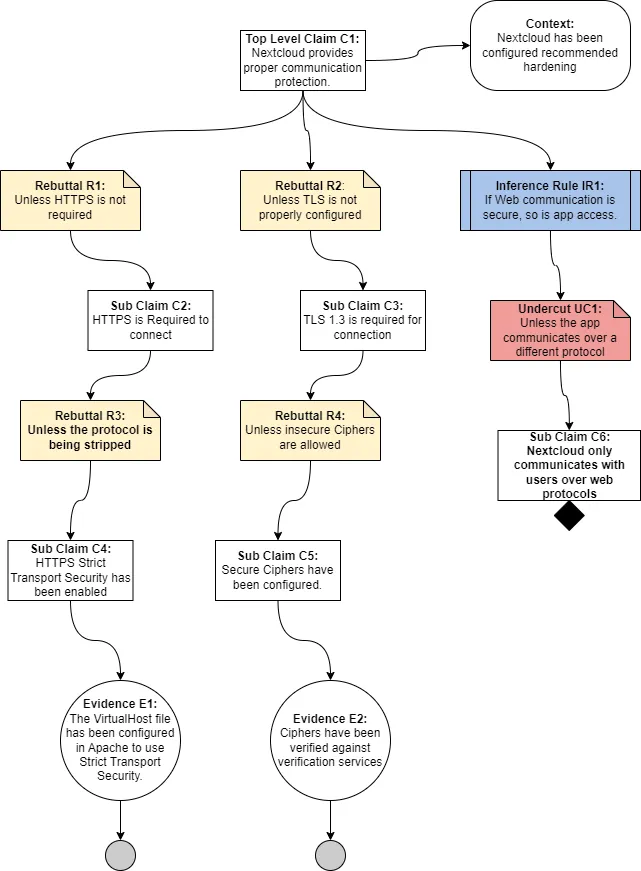
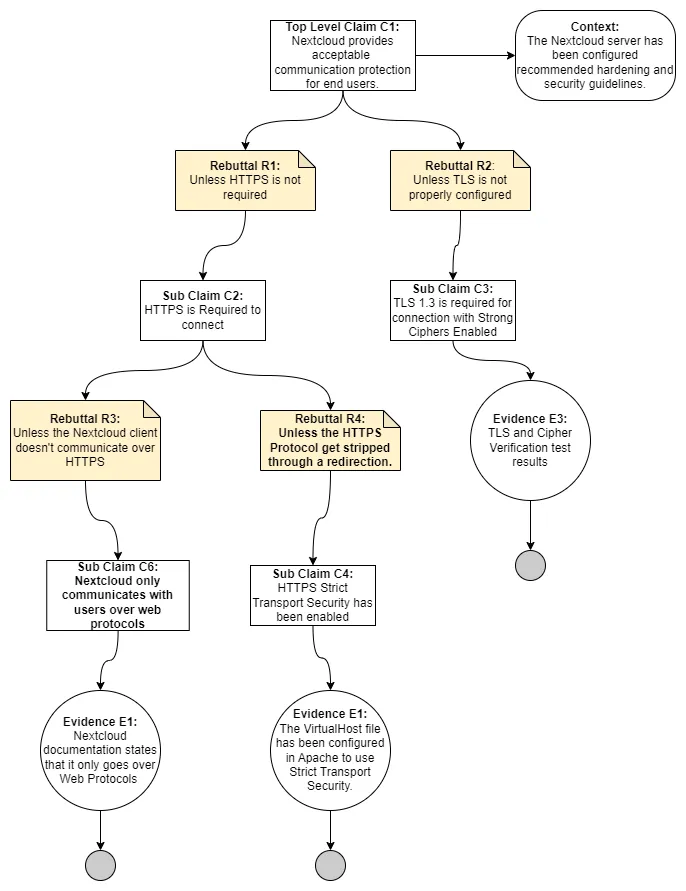
Updated Secure Communication with recommendations

diff --git a/Assurance Case/Assurance Case.md b/Assurance Case/Assurance Case.md
@@ -1,15 +1,6 @@
-# CYBR/CSCI 8420, Fall 2023: Assignment 3 - Assurance Cases for SSE
+# Assurance Cases
 
-
-Assignment Overview / Project Board
--
-This document will review the development of four top-level assurance claims for our hypothetical bank application using the Nextcloud application.
-
-
-
-Top-Level Claim #1
--
-### Claim: Nextcloud minimizes malicious input execution
+## Claim 1: Nextcloud minimizes malicious input execution
 #### Description
 User input is processed by nexcloud for searches, login, comments etc. This input can very well be used to perform many malicious activites such as extracting information from the database or executing complex script on the user's machine or even on the server. User's input represent a critical data that must be handled with care otherwise it could have some serious repercution for the business. 
 The Assurance Case below seek to mitigate this risk. 
@@ -17,9 +8,7 @@ The Assurance Case below seek to mitigate this risk.
 ![Malicious input Execution](./NC-Malicious_Input.jpg "Malicious Input Execution")
 
 
-Top-Level Claim #2
--
-### Claim: NextCloud eliminates unauthorized account access
+## Claim 2: NextCloud eliminates unauthorized account access
 
 ![Assurance Case - Account Access drawio](https://github.com/Hinrichsta/FA23-Cyber8420/assets/143133739/bb1240ba-577a-46e6-9bf6-1261e0efc286)
 
@@ -36,15 +25,18 @@ Top-Level Claim #2
 * E4: Evidence 4 will prove that as a result of change management and verification of settings post changes that these implemented claims and sub-claims will remain in effect and not be undone by any type of change or update. 
 
 
-
-Top-Level Claim #3
--
-### Claim
+## Claim 3: Nextcloud provides acceptable communication protection for end users
+#### Description
+Nextcloud has the ability to be set up with secure communication protocols within it platform.  It also only communicates over Web Protocols making it easier to properly configure the secure protocols, which can all be found here [Nextcloud HTTPS Configuration](https://docs.nextcloud.com/server/latest/admin_manual/installation/harden_server.html#use-https).  Unfortunately it doesn't do the best to document the interserver communcation protocals, and the federated files shares.  It also doesn't have a section of its public documentation that lays out proper firewall configuration with the ports that are required for the server to run.  With what it has the end user communication can be configured to be as secure as possible without including third party applications such as a Web Application Firewall.
+### Diagram:
 ![Secure Communications](./Assurance%20Case%20-%20Secure%20Communication.webp)
 
 
-
-Top-Level Claim #4
--
-### Claim
+## Claim 4: 
 - The Nextcloud ...
+
+## Reflection
+
+\## TODO: Write Reflection
+
+ [Project Page](https://github.com/users/Hinrichsta/projects/2/views/1)
